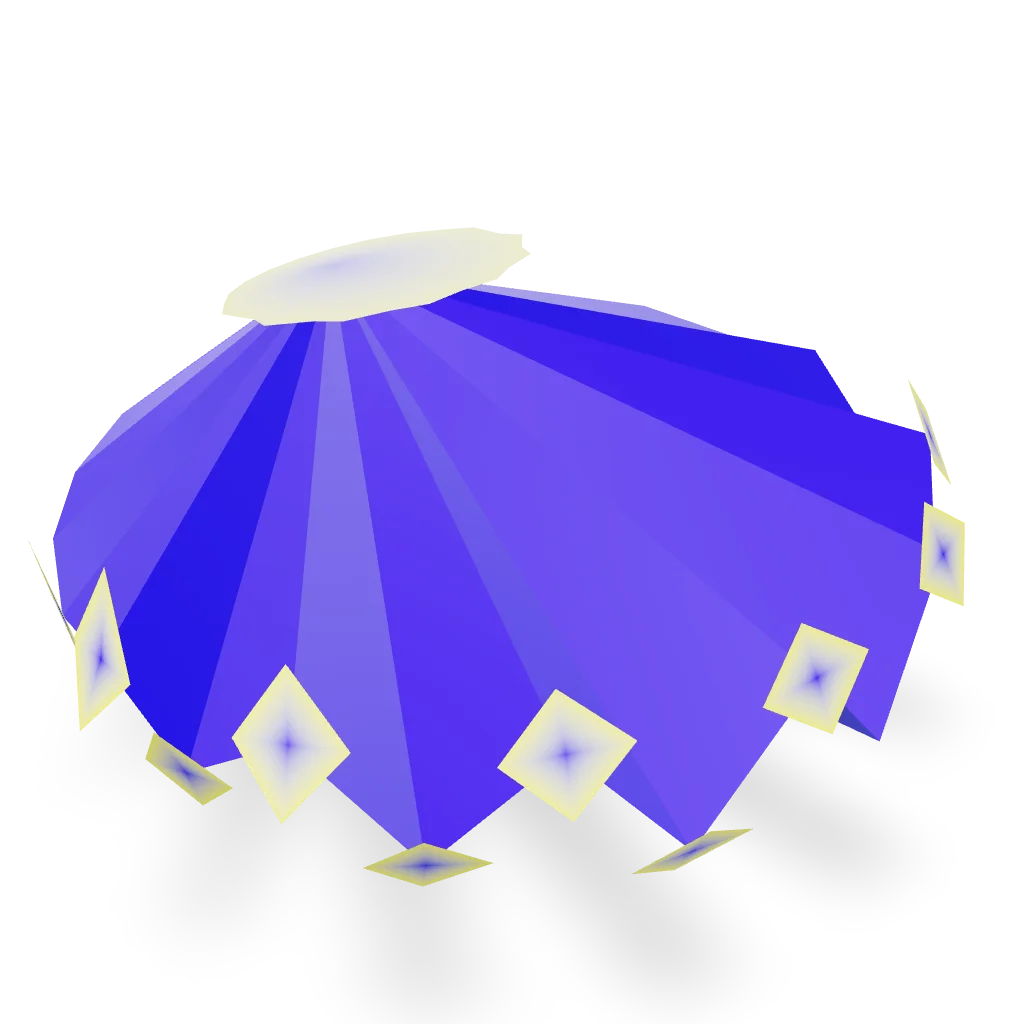
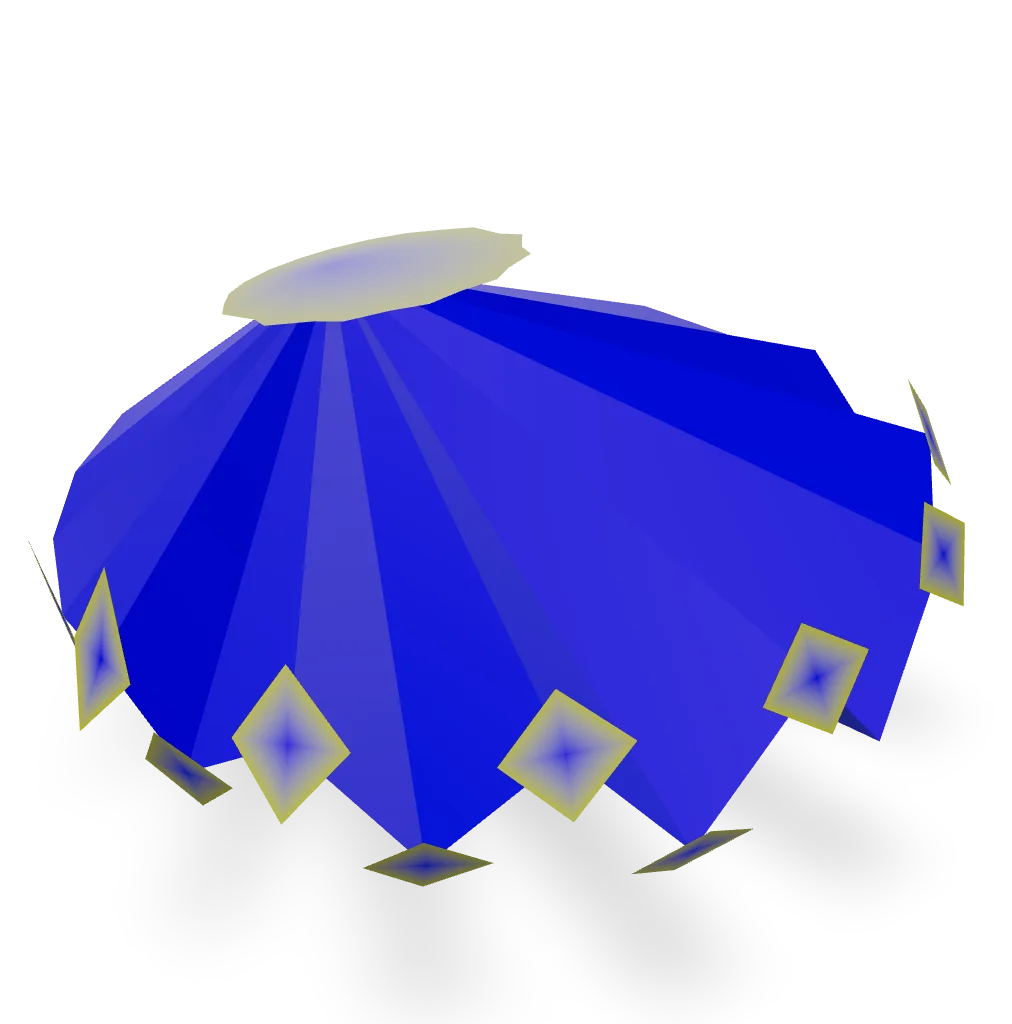
command-line arguments for tests

diff --git a/test/samples_test.cpp b/test/samples_test.cpp
@@ -14,11 +14,9 @@
 
 #include "samples.h"
 
-#include "gtest/gtest.h"
 #include "meshIO.h"
 #include "polygon.h"
-
-constexpr bool exportModels = false;
+#include "test.h"
 
 using namespace manifold;
 
@@ -53,7 +51,7 @@ std::vector<int> EdgePairs(const Mesh in) {
 // it and it'll roll around (dimensions in mm).
 TEST(Samples, Knot13) {
   Manifold knot13 = TorusKnot(1, 3, 25, 10, 3.75);
-  if (exportModels) ExportMesh("knot13.glb", knot13.GetMesh(), {});
+  if (options.exportModels) ExportMesh("knot13.glb", knot13.GetMesh(), {});
   CheckManifold(knot13);
   EXPECT_EQ(knot13.Genus(), 1);
   auto prop = knot13.GetProperties();
@@ -64,7 +62,7 @@ TEST(Samples, Knot13) {
 // This creates two interlinked knots.
 TEST(Samples, Knot42) {
   Manifold knot42 = TorusKnot(4, 2, 15, 6, 5);
-  if (exportModels) ExportMesh("knot42.glb", knot42.GetMesh(), {});
+  if (options.exportModels) ExportMesh("knot42.glb", knot42.GetMesh(), {});
   CheckManifold(knot42);
   std::vector<Manifold> knots = knot42.Decompose();
   ASSERT_EQ(knots.size(), 2);
@@ -79,7 +77,7 @@ TEST(Samples, Knot42) {
 TEST(Samples, Scallop) {
   Manifold scallop = Scallop();
 
-  if (exportModels) {
+  if (options.exportModels) {
     Mesh in = scallop.GetMesh();
     std::vector<int> edgePair = EdgePairs(in);
 
@@ -93,7 +91,7 @@ TEST(Samples, Scallop) {
       const int vert = in.triVerts[i / 3][i % 3];
       in.vertPos.push_back(in.vertPos[vert] + glm::vec3(in.halfedgeTangent[i]) *
                                                   in.halfedgeTangent[i].w);
-      options.mat.vertColor.push_back({1, 1, 0, 1});
+      options.mat.vertColor.push_back({0.5, 0.5, 0, 1});
       const int j = edgePair[i % 3 == 0 ? i + 2 : i - 1];
       in.triVerts.push_back({vert, numVert + i, numVert + j});
     }
@@ -108,7 +106,7 @@ TEST(Samples, Scallop) {
   EXPECT_NEAR(prop.volume, 41.3, 0.1);
   EXPECT_NEAR(prop.surfaceArea, 78.1, 0.1);
 
-  if (exportModels) {
+  if (options.exportModels) {
     const Mesh out = scallop.GetMesh();
     ExportOptions options2;
     options2.faceted = false;
@@ -132,7 +130,7 @@ TEST(Samples, TetPuzzle) {
   puzzle2.Rotate(0, 0, 180);
   EXPECT_TRUE((puzzle ^ puzzle2).IsEmpty());
   puzzle.Transform(RotateUp({1, -1, -1}));
-  if (exportModels) ExportMesh("tetPuzzle.glb", puzzle.GetMesh(), {});
+  if (options.exportModels) ExportMesh("tetPuzzle.glb", puzzle.GetMesh(), {});
 }
 
 TEST(Samples, FrameReduced) {
@@ -143,7 +141,8 @@ TEST(Samples, FrameReduced) {
   auto prop = frame.GetProperties();
   EXPECT_NEAR(prop.volume, 227333, 10);
   EXPECT_NEAR(prop.surfaceArea, 62635, 1);
-  if (exportModels) ExportMesh("roundedFrameReduced.glb", frame.GetMesh(), {});
+  if (options.exportModels)
+    ExportMesh("roundedFrameReduced.glb", frame.GetMesh(), {});
 }
 
 TEST(Samples, Frame) {
@@ -151,7 +150,7 @@ TEST(Samples, Frame) {
   CheckManifold(frame);
   EXPECT_EQ(frame.NumDegenerateTris(), 0);
   EXPECT_EQ(frame.Genus(), 5);
-  if (exportModels) ExportMesh("roundedFrame.glb", frame.GetMesh(), {});
+  if (options.exportModels) ExportMesh("roundedFrame.glb", frame.GetMesh(), {});
 }
 
 // This creates a bracelet sample which involves many operations between shapes
@@ -161,7 +160,7 @@ TEST(Samples, Bracelet) {
   CheckManifold(bracelet);
   EXPECT_LE(bracelet.NumDegenerateTris(), 21);
   EXPECT_EQ(bracelet.Genus(), 1);
-  if (exportModels) ExportMesh("bracelet.glb", bracelet.GetMesh(), {});
+  if (options.exportModels) ExportMesh("bracelet.glb", bracelet.GetMesh(), {});
 }
 
 TEST(Samples, Sponge1) {
@@ -170,7 +169,8 @@ TEST(Samples, Sponge1) {
   EXPECT_EQ(sponge.NumDegenerateTris(), 0);
   EXPECT_EQ(sponge.NumVert(), 40);
   EXPECT_EQ(sponge.Genus(), 5);
-  if (exportModels) ExportMesh("mengerSponge1.glb", sponge.GetMesh(), {});
+  if (options.exportModels)
+    ExportMesh("mengerSponge1.glb", sponge.GetMesh(), {});
 }
 
 // A fractal with many degenerate intersections, which also tests exact 90
@@ -187,7 +187,7 @@ TEST(Samples, Sponge4) {
   EXPECT_TRUE(cutSponge.second.IsManifold());
   EXPECT_EQ(cutSponge.second.Genus(), 13394);
 
-  if (exportModels) {
+  if (options.exportModels) {
     ExportMesh("mengerHalf.glb", cutSponge.first.GetMesh(), {});
 
     const Mesh out = sponge.GetMesh();

diff --git a/test/test_main.cpp b/test/test_main.cpp
@@ -1,0 +1,51 @@
+// Copyright 2022 Emmett Lalish
+//
+// Licensed under the Apache License, Version 2.0 (the "License");
+// you may not use this file except in compliance with the License.
+// You may obtain a copy of the License at
+//
+//      http://www.apache.org/licenses/LICENSE-2.0
+//
+// Unless required by applicable law or agreed to in writing, software
+// distributed under the License is distributed on an "AS IS" BASIS,
+// WITHOUT WARRANTIES OR CONDITIONS OF ANY KIND, either express or implied.
+// See the License for the specific language governing permissions and
+// limitations under the License.
+
+#include <unistd.h>
+
+#include "test.h"
+
+Options options;
+
+int main(int argc, char **argv) {
+  ::testing::InitGoogleTest(&argc, argv);
+
+  char *cvalue = NULL;
+  int c;
+  opterr = 0;
+
+  while ((c = getopt(argc, argv, "ev")) != -1) switch (c) {
+      case 'e':
+        options.exportModels = true;
+        break;
+      case 'v':
+        options.params.verbose = true;
+        break;
+        //   case 'c':
+        //     cvalue = optarg;
+        //     break;
+      case '?':
+        // if (optopt == 'c')
+        //   fprintf(stderr, "Option -%c requires an argument.\n", optopt);
+        if (isprint(optopt))
+          fprintf(stderr, "Unknown option `-%c'.\n", optopt);
+        else
+          fprintf(stderr, "Unknown option character `\\x%x'.\n", optopt);
+        return 1;
+      default:
+        abort();
+    }
+
+  return RUN_ALL_TESTS();
+}

diff --git a/test/test.h b/test/test.h
@@ -1,0 +1,24 @@
+// Copyright 2022 Emmett Lalish
+//
+// Licensed under the Apache License, Version 2.0 (the "License");
+// you may not use this file except in compliance with the License.
+// You may obtain a copy of the License at
+//
+//      http://www.apache.org/licenses/LICENSE-2.0
+//
+// Unless required by applicable law or agreed to in writing, software
+// distributed under the License is distributed on an "AS IS" BASIS,
+// WITHOUT WARRANTIES OR CONDITIONS OF ANY KIND, either express or implied.
+// See the License for the specific language governing permissions and
+// limitations under the License.
+
+#pragma once
+#include "gtest/gtest.h"
+#include "structs.h"
+
+struct Options {
+  bool exportModels = false;
+  manifold::ExecutionParams params = {};
+};
+
+extern Options options;

diff --git a/test/polygon_test.cpp b/test/polygon_test.cpp
@@ -17,7 +17,7 @@
 #include <algorithm>
 #include <random>
 
-#include "gtest/gtest.h"
+#include "test.h"
 
 namespace {
 
@@ -86,7 +86,7 @@ Polygons Duplicate(Polygons polys) {
 }
 
 void TestPoly(const Polygons &polys, int expectedNumTri) {
-  //   PolygonParams().verbose = true;
+  PolygonParams().verbose = options.params.verbose;
   PolygonParams().intermediateChecks = true;
 
   std::vector<glm::ivec3> triangles;
@@ -2837,12 +2837,4 @@ TEST(Polygon, BigSponge) {
       {glm::vec2(0.487654328, 0.450617284), 83865},  //
   });
   TestPoly(polys, 1771);
-}
-
-// void fnExit() { throw std::runtime_error("Someone called Exit()!"); }
-
-int main(int argc, char **argv) {
-  // atexit(fnExit);
-  ::testing::InitGoogleTest(&argc, argv);
-  return RUN_ALL_TESTS();
 }

diff --git a/test/mesh_test.cpp b/test/mesh_test.cpp
@@ -14,10 +14,9 @@
 
 #include <random>
 
-#include "gtest/gtest.h"
 #include "manifold.h"
 #include "meshIO.h"
-#include "polygon.h"
+#include "test.h"
 
 namespace {
 
